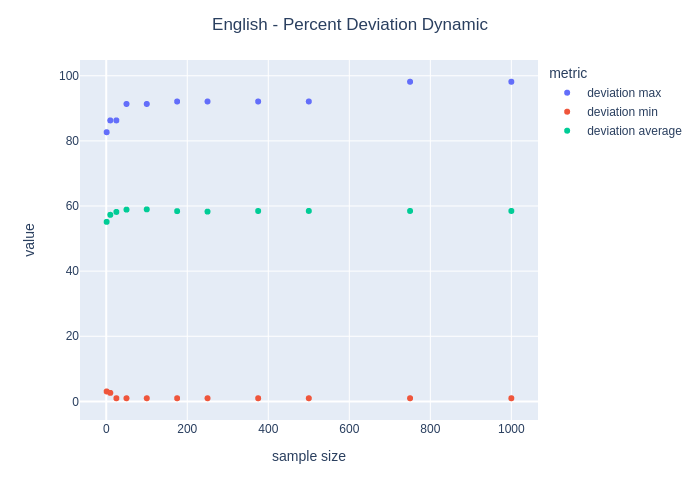
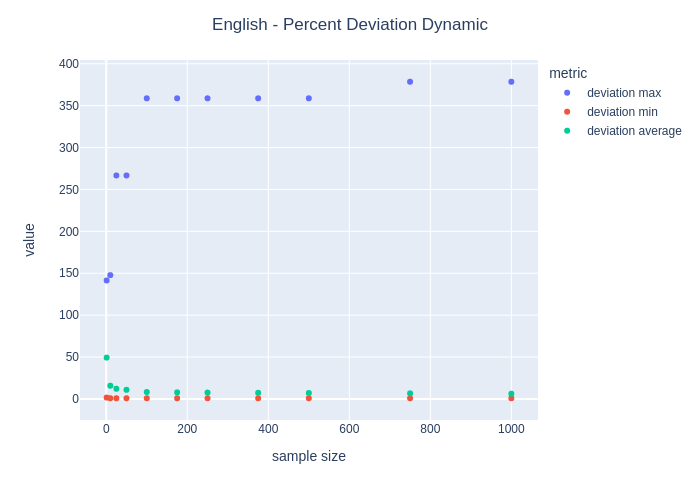
better dynamic undo

diff --git a/assignment2/analysis.py b/assignment2/analysis.py
@@ -1,6 +1,6 @@
 import argparse
 import json
-from math import inf
+from math import inf,sqrt
 import plotly.express as px
 import pandas as pd
 import os
@@ -191,8 +191,7 @@ def drawBarGraphs(data,interactive):
         fig.write_image("graphs/hist.png")
     
 def inverseDynamicMod(value):
-    return 2 ** (value/2) -1  #TODO: ASK TEACHER ABOUT THIS
-
+    return (2 **(value/2) - sqrt(2) +1)/(sqrt(2)-1) ##  2** value/2 is more accurate than using sqrt(2)**value
 if __name__ == "__main__":
     parser= argparse.ArgumentParser()
     parser.add_argument("--source",help="input data json file", default="results.json")
